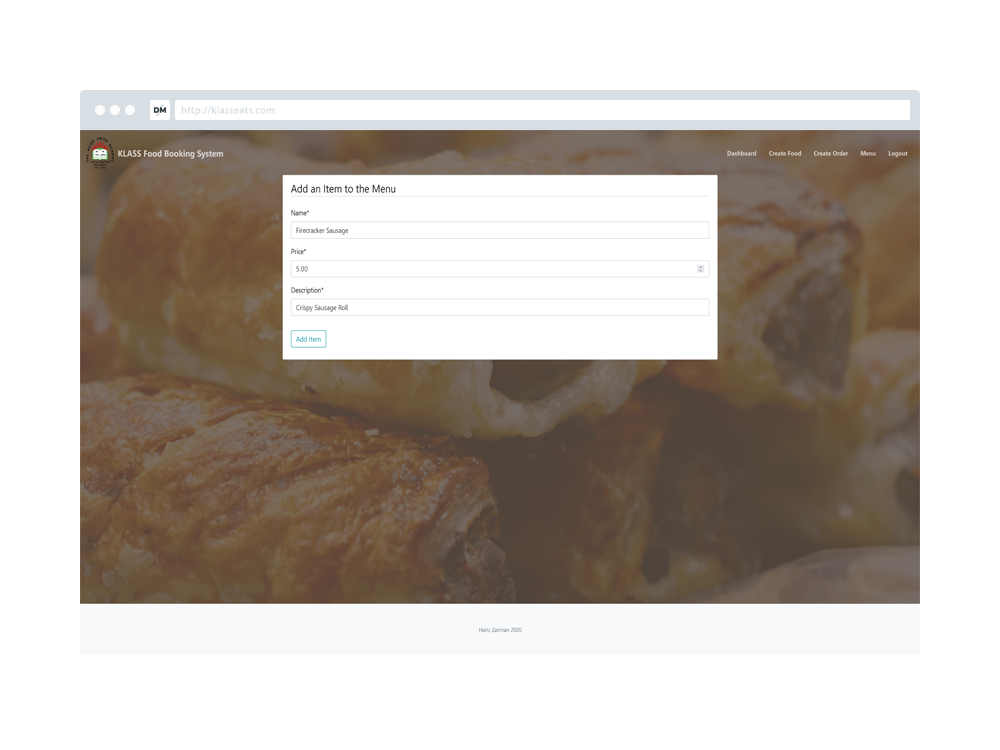
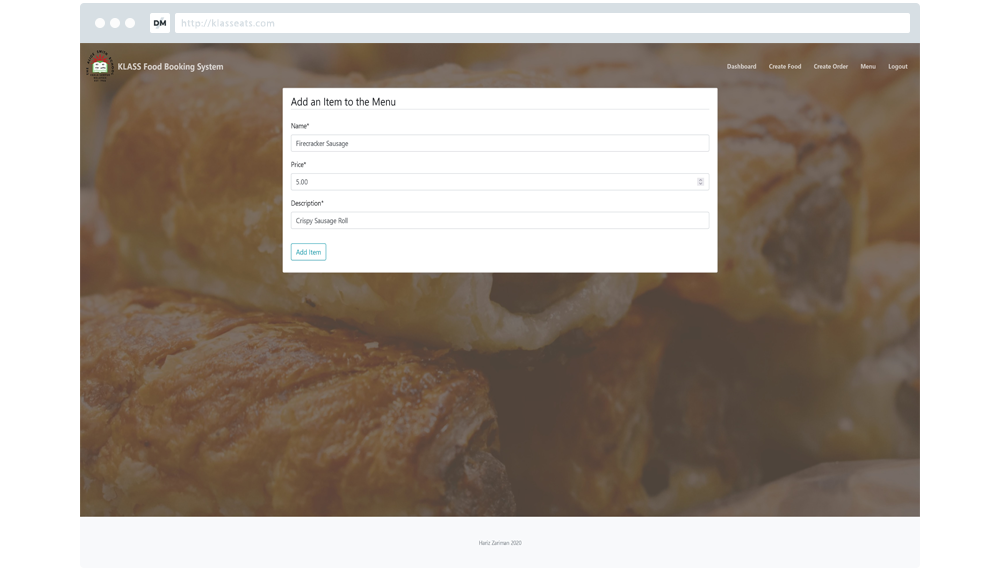
Style changes

diff --git a/public/css/layout.css b/public/css/layout.css
@@ -1320,6 +1320,7 @@ CARD CSS STUFF
 .project.section {
    background: url(../images/bg-common.jpg);
    background-size: 100vw 85vh;
+   background-repeat: no-repeat;
    
 
 }
@@ -1393,11 +1394,11 @@ CARD CSS STUFF
 }
 
 .row.cover h1 {
-   height: 5%;
+   min-height: 5%;
 }
 
 .row.cover .project-JD {
-   height: 10%;
+   min-height: 10%;
 }
 
 .project-cover {
@@ -1428,10 +1429,16 @@ CARD CSS STUFF
 
 .row.overview {
    display: flex;
+   flex-wrap: wrap;
+   justify-content: center;
+}
+
+.row.overview p {
+   width: 50%;
 }
 
 .project-overview-image {
-   width: 50%;
+   width: 500px;
    background-size: cover;
    background-position: center;
    background-repeat: no-repeat;
